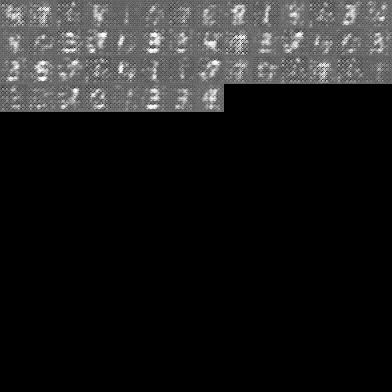
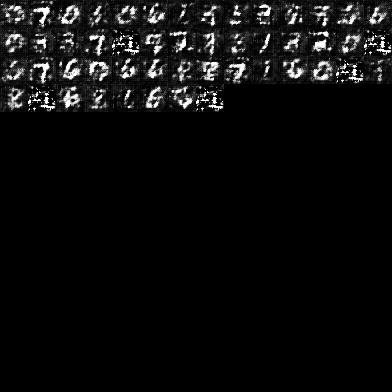
Adding relevant images

Changed region(s): [[0.0, 0.0, 1.0, 0.3061]]

diff --git a/elements/dcgan28.py b/elements/dcgan28.py
@@ -175,7 +175,7 @@ class DCGAN():
 				kernel_size=[4,4], strides=[2,2], padding='SAME', activation=None,
 				kernel_initializer=self.initializer,
 				reuse=scope.reuse,name="conv_3")
-			return tf.nn.sigmoid(self.normalize(h5,flag=True))
+			return tf.tanh(h5)
 
 	def samples_generator(self):
 		with tf.device("/gpu:0"):
